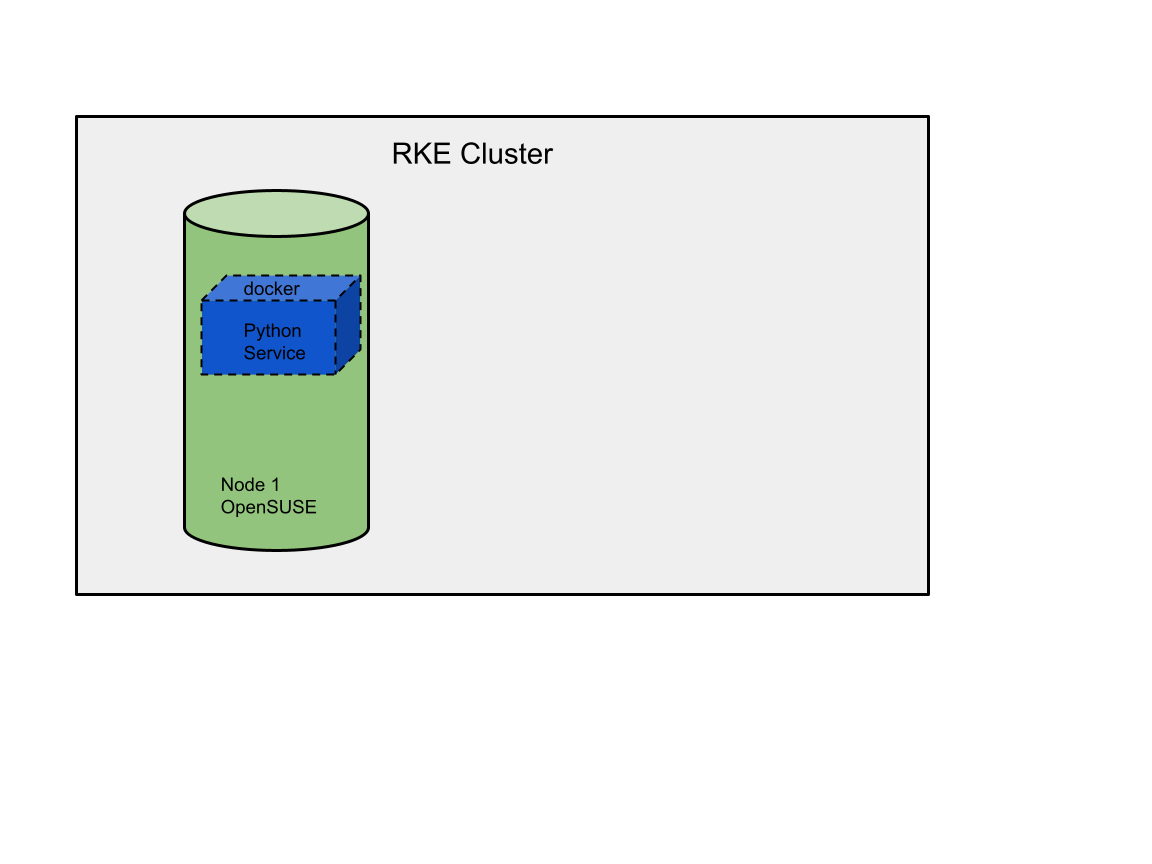
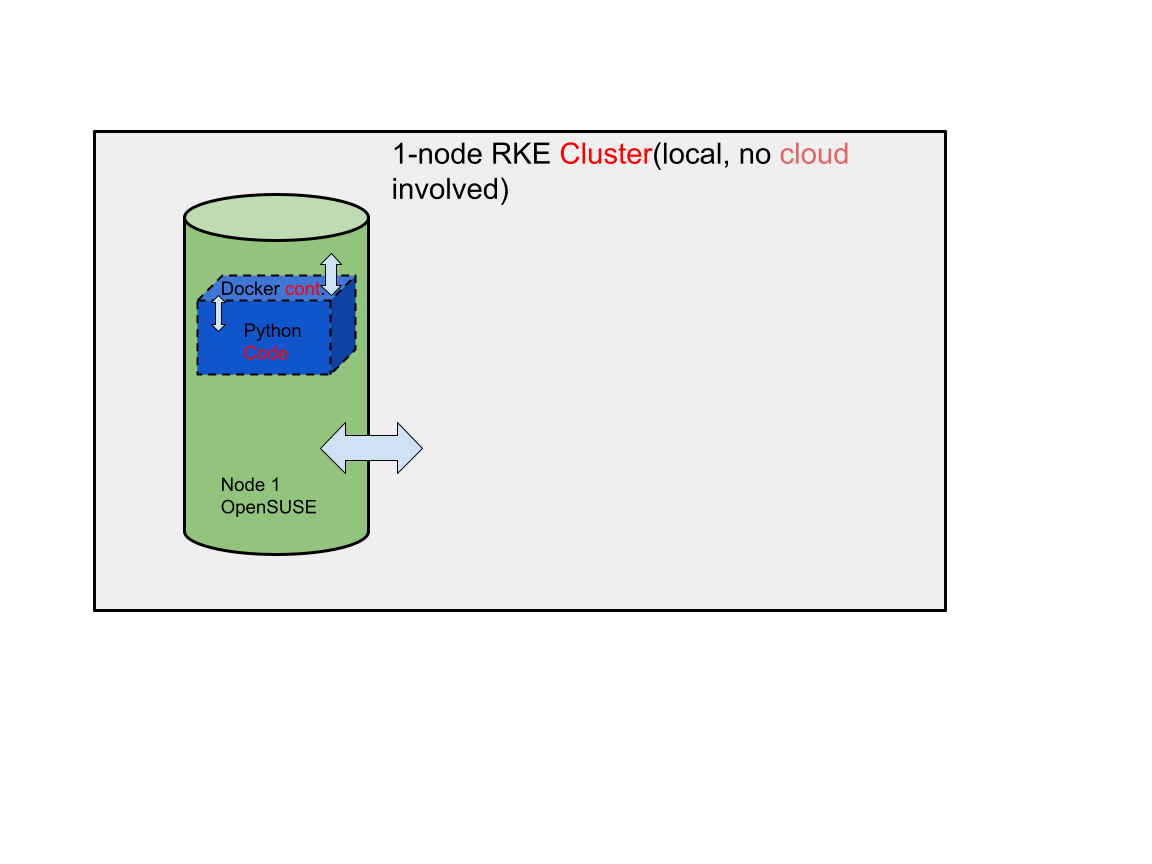
docs: improve design diagram; harden docker benchmark including audit

Changed region(s): [[0.0625, 0.125, 0.8125, 0.7188], [0.1562, 0.5938, 0.3125, 0.6562], [0.2812, 0.5, 0.375, 0.5625]]

diff --git a/README.md b/README.md
@@ -257,12 +257,12 @@ https://falco.org/docs/rules/
 container.id != host and proc.name = bash
 
 12. Grafana
+export KUBECONFIG=kube_config_cluster.yml
 kubectl --kubeconfig kube_config_cluster.yml --namespace default port-forward prometheus-grafana-f87bfb777-c998s 3000
 kubectl --kubeconfig kube_config_cluster.yml port-forward --namespace default falco-exporter-j2m2x 9376
-
 kubectl --kubeconfig kube_config_cluster.yml --namespace default port-forward prometheus-prometheus-kube-prometheus-prometheus-0 9090
 //`E1230 18:38:38.363046   12299 portforward.go:400]`
-
+https://grafana.com/grafana/dashboards/11914
 `The connection to the server 127.0.0.1:6443 was refused - did you specify the right host or port?` 
 redo: `export KUBECONFIG=kube_config_cluster.yml`
 
@@ -322,3 +322,176 @@ Events:                            <none>
 
 kubectl --kubeconfig kube_config_cluster.yml edit prometheus prometheus-kube-prometheus-prometheus
 kubectl --kubeconfig kube_config_cluster.yml apply -f manual_service_monitor_falco_exporter.yml
+
+13. A. harden host docker environment
+ssh root@192.168.56.4            //vagrant ssh after rke remove                                                    
+localhost:~ # docker version //20.10.9-ce
+ API version:       1.41
+ Go version:        go1.16.8
+
+vi install_go.sh 
+chmod 744 install_go.sh 
+./install_go.sh  
+//t, y
+//go version go1.15.15 linux/amd64
+
+//docker_bench.sh
+sudo zypper install git 
+git version //git version 2.26.2
+git clone https://github.com/aquasecurity/docker-bench.git
+cd docker-bench
+go build -o docker-bench 
+./docker-bench --help 
+
+./docker-bench --include-test-output > suse_docker_environment_out_of_box_output.txt 
+cat suse_docker_environment_out_of_box_output.txt | grep FAIL > suse_docker_environment_out_of_box_FAIL.txt
+cat suse_docker_environment_out_of_box_FAIL.txt //38
+
+2.1 Ensure network traffic is restricted between containers on the default bridge (Scored)
+docker network ls --quiet | xargs docker network inspect --format '{{ .Name}}: {{ .Options }}'
+dockerd --icc=false //`failed to start daemon: pid file found, ensure docker is not running or delete /var/run/docker.pid`
+"icc": false //bears impact
+touch /etc/subuid /etc/subgid
+dockerd --userns-remap=default
+
+localhost:~/docker-bench # cat /etc/subuid
+vagrant:100000:65536
+dockremap:100000000:100000001
+rke:165536:65536
+
+localhost:~/docker-bench # cat /etc/subgid
+vagrant:100000:65536
+dockremap:100000000:100000001
+rke:165536:65536
+
+2.13 Ensure live restore is enabled (Scor
+Run Docker in daemon mode
+Remediation:
+Run Docker in daemon mode and pass --live-restore to it as an argument. For Example,
+dockerd --live-restore
+adding
+
+{
+  "live-restore": true
+} //impact: none
+to /etc/docker/daemon.json per https://stackoverflow.com/questions/63434189/does-restarting-docker-service-kills-all-containers
+/etc/docker/daemon.json
+5.11 Ensure that CPU priority is set appropriately on containers (Scored)
+ docker ps --quiet --all | xargs docker inspect --format '{{ .Id }}: CpuShares={{ .HostConfig.CpuShares }}'
+  except: 
+  CONTAINER ID   IMAGE                                                    COMMAND                  CREATED        STATUS                      PORTS     NAMES
+  4e328c45f92c   rancher/rke-tools:v0.1.78                                "/docker-entrypoint.…"   32 hours ago   Up 28 hours                           etcd-rolling-snapshots
+
+  92e31537a5b9   rancher/hyperkube:v1.20.4-rancher1                       "/opt/rke-tools/entr…"   32 hours ago   Up 28 hours                           kube-proxy
+d9c845df52f5   rancher/hyperkube:v1.20.4-rancher1                       "/opt/rke-tools/entr…"   32 hours ago   Up 28 hours                           kubelet
+ece2615e6ed4   rancher/hyperkube:v1.20.4-rancher1                       "/opt/rke-tools/entr…"   32 hours ago   Up 28 hours                           kube-scheduler
+171e287148e5   rancher/hyperkube:v1.20.4-rancher1                       "/opt/rke-tools/entr…"   32 hours ago   Up 28 hours                           kube-controller-manager
+b1ce95a179c1   rancher/hyperkube:v1.20.4-rancher1                       "/opt/rke-tools/entr…"   32 hours ago   Up 28 hours                           kube-apiserver
+f6662cebc634   rancher/rke-tools:v0.1.72                                "/bin/bash"              32 hours ago   Created                               service-sidekick
+898b172b3975   rancher/coreos-etcd:v3.4.14-rancher1                     "/usr/local/bin/etcd…"   32 hours ago   Up 28 hours                           etcd
+d5c093f42691   rancher/rke-tools:v0.1.72                                "/docker-entrypoint.…"   32 hours ago   Exited (0) 32 hours ago               cluster-state-deployer
+
+5.25 Ensure that the container is restricted from acquiring additional privileges (Scored)
+ docker ps --quiet --all | xargs docker inspect --format '{{ .Id }}: SecurityOpt={{ .HostConfig.SecurityOpt }}'
+ //docker run --rm -it --security-opt=no-new-privileges ubuntu bash
+
+ //docker build -t opensuse/hardened-v1.0 . --no-cache=true
+ docker build . -t opensuse/leap:latest -m 512mb --no-cache=true //works
+
+//docker run --interactive --tty --memory 512mb opensuse/leap /bin/bash
+//docker run -u --detach --restart=on-failure:5 --memory 512mb opensuse/leap
+./docker-bench --include-test-output > suse_docker_environment_hardened.txt 
+localhost:~/docker-bench # cat suse_docker_environment_hardened.txt | grep FAIL > suse_docker_environment_hardened_FAIL.txt
+`diff suse_docker_environment_out_of_box_FAIL.txt suse_docker_environment_hardened_FAIL.txt`
+: see screenshot at submissions/docker_bench_2_15_live_restore_enabled.jpeg
+at /root:
+docker build . -t opensuse/leap:hardened-v2.0 -m 512mb --no-cache=true //Successfully tagged opensuse/leap:hardened-v2.0
+docker tag opensuse/leap:hardened-v2.0 treefishdocker/udacity-microservices-security:hardened-v2.0
+
+docker run opensuse/leap:hardened-v2.0
+docker push treefishdocker/udacity-microservices-security:hardened-v2.0
+update Dockerfile with the above image, and 
+docker run --detach --restart=on-failure:5 --memory 256mb  --security-opt=no-new-privileges treefishdocker/udacity-microservices-security:hardened-v2.0 //WARNING: Your kernel does not support swap limit capabilities or the cgroup is not mounted. Memory limited without swap.
+https://stackoverflow.com/questions/48685667/what-does-docker-mean-when-it-says-memory-limited-without-swap
+
+./docker-bench --include-test-output > suse_docker_environment_hardened_2.txt 
+cat suse_docker_environment_hardened_2.txt | grep FAIL > suse_docker_environment_hardened_2_FAIL.txt
+
+https://www.techrepublic.com/article/how-to-use-docker-bench-for-security-to-audit-your-container-deployments/ 
+
+docker ps --quiet --all | xargs docker inspect --format '{{ .Id }}: Memory={{ .HostConfig.Memory }}'
+//
+0c58af0992ddc70678a36c9c81aaa1ffd6be0970a5fedea8c8d1644767c4e059: Memory=536870912
+46ae95bdc7b446e6dc2bf6d12d6feb7c15786ffdd007fc694ff445f849240457: Memory=536870912
+0c58af0992dd   treefishdocker/udacity-microservices-security:hardened-v2.0   "/bin/bash"              11 minutes ago      Exited (0) 11 minutes ago                intelligent_noether
+e9681b628bbd6eb1e34da6d21571407597e367ce71abf1bf478d94064fd87388: Memory=268435456
+
+13. B (repeat with new vm instance)vagrant destroy and repeat docker-bench tests:
+`submissions/docker_bench_2/suse_vagrant_out_of_box.jpeg`
+
+2.8 Enable user namespace support (Scored): impact
+ ps -p $(docker inspect --format='{{ .State.Pid }}' <CONTAINER ID>) -o pid,user
+
+2.14 Ensure Userland Proxy is Disabled (Scored)
+ ps -ef | grep dockerd
+ dockerd --userland-proxy=false
+
+2.17 Ensure containers are restricted from acquiring new privileges (Scored)
+ ps -ef | grep dockerd
+ dockerd --no-new-privileges
+
+ rke remove
+ vagrant ssh
+ cat /etc/docker/daemon.json
+ add "icc": false,
+    "userns-remap": "default",
+    "live-restore": true,
+    "userland-proxy": false,
+    "no-new-privileges": true
+
+    per https://www.techrepublic.com/article/how-to-use-docker-bench-for-security-to-audit-your-container-deployments/
+    https://documentation.suse.com/sles/12-SP4/html/SLES-all/cha-audit-setup.htmlsystemctl 
+status audit
+    
+./audit.sh
+    
+/etc/audit/auditd.conf different from TOBE
+systemctl enable auditd
+cat /etc/audit/audit.rules
+vi /etc/audit/audit.rules //add the set as in https://www.techrepublic.com/article/how-to-use-docker-bench-for-security-to-audit-your-container-deployments/
+
+systemctl restart auditd
+systemctl restart docker
+
+./docker-bench --include-test-output > suse_vagrant_audit.txt 
+cat suse_vagrant_audit.txt | grep FAIL > suse_vagrant_audit_FAIL.txt
+cat suse_vagrant_audit_FAIL.txt 
+
+diff suse_vagrant_audit_FAIL.txt suse_docker_environment_out_of_box_FAIL.txt //38 fown to 29 : see a screenshot at "submissions/suse_docker_environment_hardened.jpeg"
+
+14. 
+docker login
+docker pull opensuse/leap:latest
+vi Dockerfile //copy ans paste the Dockerfile from project /starter to inside localhost SUSE vm
+docker build . -t opensuse/leap:hardened-v2.1 -m 512mb --no-cache=true 
+docker tag opensuse/leap:hardened-v2.1 treefishdocker/udacity-microservices-security:hardened-v2.1
+docker image ls
+docker run opensuse/leap:hardened-v2.1
+docker ps -a
+docker push treefishdocker/udacity-microservices-security:hardened-v2.1
+
+./docker-bench --include-test-output > suse_vagrant_dockerfile.txt 
+cat suse_vagrant_dockerfile.txt | grep FAIL > suse_vagrant_dockerfile_FAIL.txt
+cat suse_vagrant_dockerfile_FAIL.txt //29
+diff suse_vagrant_audit_FAIL.txt suse_vagrant_dockerfile_FAIL.txt
+26c26
+< [FAIL] 5.14 Ensure that the 'on-failure' container restart policy is set to '5' (Automated)
+---
+> [FAIL] 5.12 Ensure that the container's root filesystem is mounted as read only (Automated)
+
+docker rm <Container id>
+docker run --detach --restart=on-failure:5 --memory 512mb  --security-opt=no-new-privileges opensuse/leap:hardened-v2.1
+
+./docker-bench --include-test-output > suse_vagrant_dockerfile_run2.txt 
+cat suse_vagrant_dockerfile_run2.txt | grep FAIL > suse_vagrant_dockerfile_run2_FAIL.txt
+cat suse_vagrant_dockerfile_run2_FAIL.txt 
